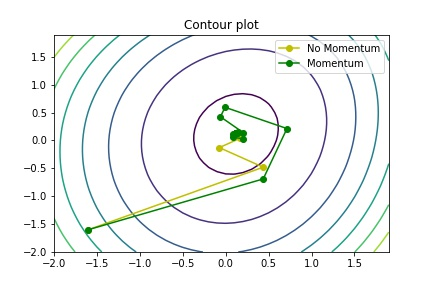
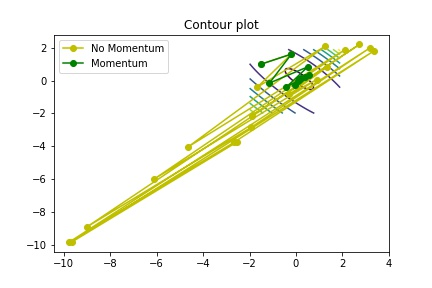
1

diff --git a/CSC411/Project_2/P2_Test/digits.py b/CSC411/Project_2/P2_Test/digits.py
@@ -397,7 +397,7 @@ def part6_get_loss_2var(w1,w2,w1_r,w1_c,w2_r,w2_c,Wb,x,y):
     output = forward(x,var_Wb)
     return NLL(y.T, output)
 
-def part6_grad_descent_2var(f, df, loss, x, y, init_t, w1,w2,w1_r,w1_c,w2_r,w2_c,ada_learning_rate = True,momentum = True, damping = 0.9, alpha=0.0001, max_iter=50, EPS = 1e-5):
+def part6_grad_descent_2var(f, df, loss, x, y, init_t, w1,w2,w1_r,w1_c,w2_r,w2_c,ada_learning_rate = True,momentum = True, damping = 0.6, alpha=0.0001, max_iter=20, EPS = 1e-5):
     """
     Input:
         ada_learning_rate: adaptive learning rate flag
@@ -405,11 +405,19 @@ def part6_grad_descent_2var(f, df, loss, x, y, init_t, w1,w2,w1_r,w1_c,w2_r,w2_c
         damping: momentum danping ratio
     Output:
     """
+    if momentum == True:
+        ensured_damping = damping
+    else:
+        ensured_damping = 0
+        
     v = np.zeros((init_t.shape[0],init_t.shape[1])) #used for momentum
     
     var_t = init_t.copy()
     var_t[w1_r,w1_c] = w1
-    var_t[w2_r,w2_c] = w2    
+    var_t[w2_r,w2_c] = w2
+
+    print var_t[w1_r,w1_c],var_t[w2_r,w2_c]
+    print momentum
 
     prev_t = var_t-10*EPS
     t = var_t.copy()
@@ -425,13 +433,10 @@ def part6_grad_descent_2var(f, df, loss, x, y, init_t, w1,w2,w1_r,w1_c,w2_r,w2_c
             traj.append((t[w1_r,w1_c],t[w2_r,w2_c]))
         #normal gradient descent
         prev_t = t.copy()
-        if momentum:
-            v = damping*v+curr_alpha*df(y, f(x,t), x)
-            t[w1_r,w1_c] -= v[w1_r,w1_c]
-            t[w2_r,w2_c] -= v[w2_r,w2_c]
-        else:
-            t[w1_r,w1_c] -= curr_alpha*(df(y, f(x,t), x)[w1_r,w1_c])
-            t[w2_r,w2_c] -= curr_alpha*(df(y, f(x,t), x)[w2_r,w2_c])
+        
+        v = ensured_damping*v + curr_alpha*df(y, f(x,t), x)
+        t[w1_r,w1_c] = t[w1_r,w1_c] - v[w1_r,w1_c]
+        t[w2_r,w2_c] = t[w2_r,w2_c] - v[w2_r,w2_c]
         
         if iter % 5 == 0:
             print "Iter", iter
@@ -469,7 +474,7 @@ def part6():
     #train the nn, only need to run once
     #part6_train(training_x, training_y,validation_x,validation_y, test_x, test_y)
     
-    np.random.seed(2)
+    np.random.seed(3)
     
     trained_Wb = np.load("data/trained_Wb.npy")
     
@@ -479,20 +484,22 @@ def part6():
     w1_r = int(round((num_digits-1)*np.random.rand()))
     w2_r = int(round((num_digits-1)*np.random.rand()))
     
+    print "Pick two variables located at (%d,%d) and (%d,%d)" % (w1_r,w1_c,w2_r,w2_c)
+    
     #contour plot
-    w1s = np.arange(-2, 2, 0.1)
-    w2s = np.arange(-2, 2, 0.1)
+    w1s = np.arange(trained_Wb[w1_r][w1_c]-2, trained_Wb[w1_r][w1_c]+2, 0.1)
+    w2s = np.arange(trained_Wb[w2_r][w2_c]-2, trained_Wb[w2_r][w2_c]+2, 0.1)
     w1z, w2z = np.meshgrid(w1s, w2s)
     C = np.zeros([w1s.size, w2s.size])
     for i, w1 in enumerate(w1s):
         for j, w2 in enumerate(w2s):
             C[j,i] = part6_get_loss_2var(w1,w2,w1_r,w1_c,w2_r,w2_c,trained_Wb,training_x,training_y)
     
-    init_w1 = -1.6
-    init_w2 = -1.6        
-    gd_traj = part6_grad_descent_2var(forward, backward, NLL, training_x, training_y.T, trained_Wb, init_w1,init_w2,w1_r,w1_c,w2_r,w2_c, alpha=0.0025,ada_learning_rate = False, momentum = False)
-    mo_traj = part6_grad_descent_2var(forward, backward, NLL, training_x, training_y.T, trained_Wb, init_w1,init_w2,w1_r,w1_c,w2_r,w2_c, alpha=0.0025,ada_learning_rate = False, damping = 0.4)
-    
+    init_w1 = trained_Wb[w1_r][w1_c]-1.5
+    init_w2 = trained_Wb[w2_r][w2_c]+1.0
+    gd_traj = part6_grad_descent_2var(forward, backward, NLL, training_x, training_y.T, trained_Wb, init_w1,init_w2,w1_r,w1_c,w2_r,w2_c, alpha=0.0012,ada_learning_rate = False, momentum = False, damping = 0)
+    mo_traj = part6_grad_descent_2var(forward, backward, NLL, training_x, training_y.T, trained_Wb, init_w1,init_w2,w1_r,w1_c,w2_r,w2_c, alpha=0.0012,ada_learning_rate = False, momentum = True,damping = 0.4)
+
     CS = plt.contour(w1z, w2z, C, camp=cm.coolwarm)
     plt.plot([a for a, b in gd_traj], [b for a,b in gd_traj], 'yo-', label="No Momentum")
     plt.plot([a for a, b in mo_traj], [b for a,b in mo_traj], 'go-', label="Momentum")
